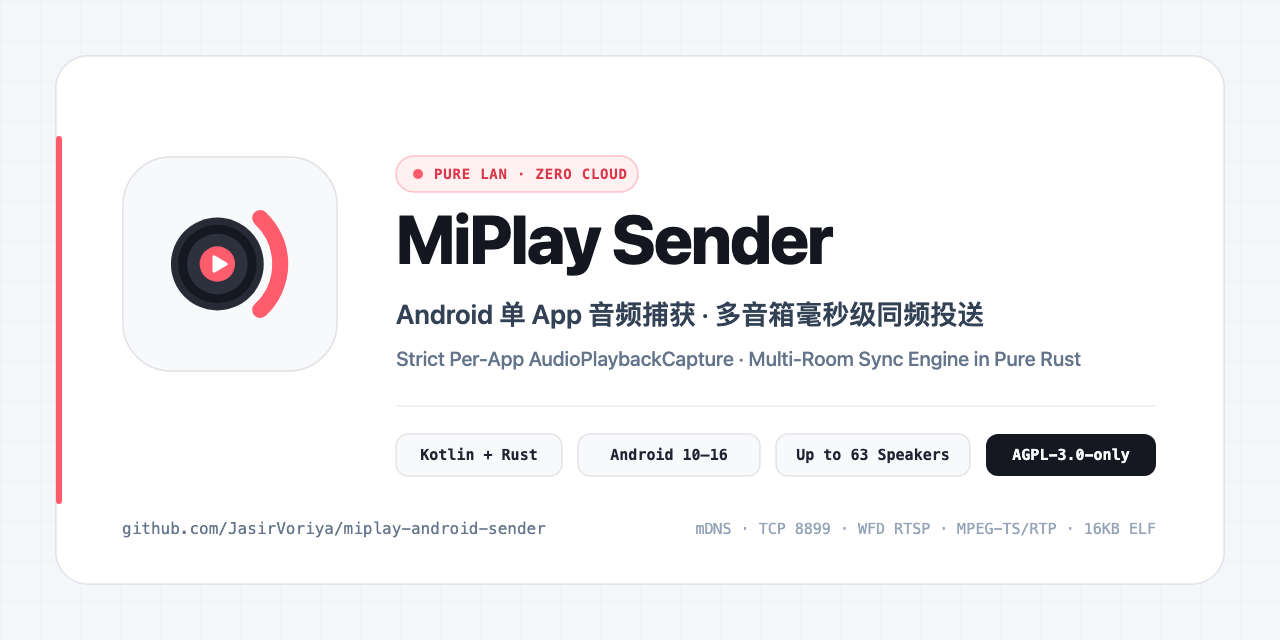
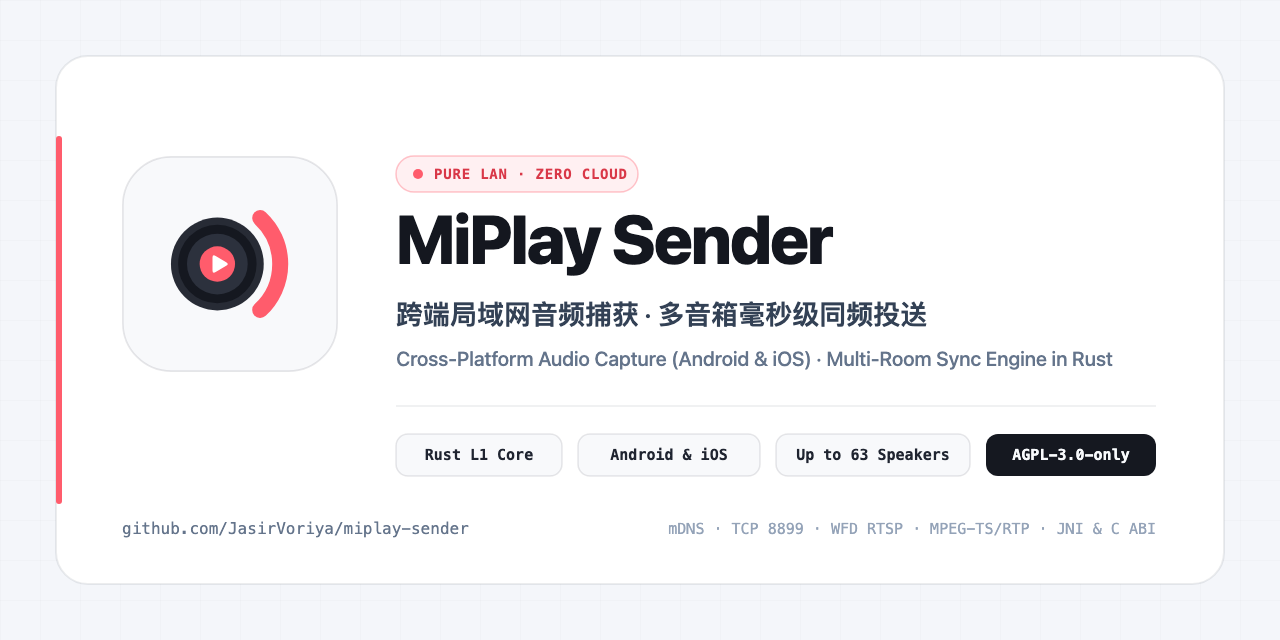
docs: rename project to miplay-sender and unify Android & iOS cross-platform copy

diff --git a/docs/architecture.html b/docs/architecture.html
@@ -762,7 +762,7 @@
         <img src="assets/logo-dark.svg" alt="" width="40" height="40" style="border-radius: 10px; flex-shrink: 0; display: block;">
         <div>
           <h1>MiPlay Sender · 交互式架构与运行时浏览器</h1>
-          <p class="site-subtitle">Android (Kotlin · API 29–36) ⇄ JNI (.so) ⇄ Rust Core (miplay-sender-core) · Pure LAN Multi-Speaker</p>
+          <p class="site-subtitle">Android (Kotlin · JNI) &amp; iOS (Swift · C ABI) ⇄ Rust L1 Core (miplay-sender-core) · Pure LAN Multi-Speaker</p>
         </div>
       </div>
       <ul class="kpi-row" aria-label="架构核心指标">

diff --git a/README.md b/README.md
@@ -8,29 +8,30 @@
 
 # MiPlay 发送端（纯局域网）
 
-**Android 手机单 App 音频捕获 · 零云端纯局域网 · 多音箱毫秒级同频投送**
+**跨端局域网音频捕获与投送（Android & iOS）· 零云端纯局域网 · 多音箱毫秒级同频同步**
 
 <p>
   <strong>简体中文</strong> · <a href="README_EN.md">English</a> ·
-  <a href="https://jasirvoriya.github.io/miplay-android-sender/">在线交互式架构图</a> ·
+  <a href="https://jasirvoriya.github.io/miplay-sender/">在线交互式架构图</a> ·
   <a href="docs/COMPATIBILITY.md">设备兼容矩阵</a> ·
   <a href="CHANGELOG.md">更新日志</a> ·
   <a href="CONTRIBUTING.md">参与贡献</a>
 </p>
 
 <p>
-  <a href="https://github.com/JasirVoriya/miplay-android-sender/actions/workflows/ci.yml"><img alt="CI" src="https://github.com/JasirVoriya/miplay-android-sender/actions/workflows/ci.yml/badge.svg"></a>
-  <a href="https://github.com/JasirVoriya/miplay-android-sender/releases"><img alt="Version v0.9.4" src="https://img.shields.io/badge/Version-v0.9.4-1F2430?style=flat-square"></a>
+  <a href="https://github.com/JasirVoriya/miplay-sender/actions/workflows/ci.yml"><img alt="CI" src="https://github.com/JasirVoriya/miplay-sender/actions/workflows/ci.yml/badge.svg"></a>
+  <a href="https://github.com/JasirVoriya/miplay-sender/releases"><img alt="Version v0.9.4" src="https://img.shields.io/badge/Version-v0.9.4-1F2430?style=flat-square"></a>
   <a href="LICENSE"><img alt="License: AGPL-3.0-only" src="https://img.shields.io/badge/License-AGPL--3.0--only-FF5C6C?style=flat-square&logo=gnu&logoColor=white"></a>
   <img alt="Android 10+ (API 29-36)" src="https://img.shields.io/badge/Android-10%2B%20(API%2029--36)-3DDC84?style=flat-square&logo=android&logoColor=white">
+  <img alt="iOS FFI Ready · SwiftUI Planned" src="https://img.shields.io/badge/iOS-FFI%20Ready%20%C2%B7%20SwiftUI-1F2430?style=flat-square&logo=apple&logoColor=white">
   <img alt="Pure LAN · Zero Cloud" src="https://img.shields.io/badge/Network-Pure%20LAN%20%C2%B7%20Zero%20Cloud-0EA5E9?style=flat-square">
   <img alt="Multi-Room Up to 63" src="https://img.shields.io/badge/Multi--Room-Max%2063%20Speakers-10B981?style=flat-square">
 </p>
 
 <p>
-  <img alt="Kotlin 2.0.21" src="https://img.shields.io/badge/Kotlin-2.0.21-7F52FF?style=flat-square&logo=kotlin&logoColor=white">
   <img alt="Rust 2021 (1.75+)" src="https://img.shields.io/badge/Rust-2021%20(%E2%89%A51.75)-181B22?style=flat-square&logo=rust&logoColor=white">
-  <img alt="JNI + cargo-ndk" src="https://img.shields.io/badge/Bridge-JNI%20%C2%B7%20cargo--ndk-374151?style=flat-square&logo=rust&logoColor=white">
+  <img alt="Kotlin 2.0.21" src="https://img.shields.io/badge/Kotlin-2.0.21-7F52FF?style=flat-square&logo=kotlin&logoColor=white">
+  <img alt="JNI + C ABI (FFI)" src="https://img.shields.io/badge/Bridge-JNI%20%C2%B7%20C%20ABI%20(FFI)-374151?style=flat-square&logo=rust&logoColor=white">
   <img alt="Gradle 8.11 · AGP 8.7" src="https://img.shields.io/badge/Gradle-8.11%20%C2%B7%20AGP%208.7-02303A?style=flat-square&logo=gradle&logoColor=white">
   <img alt="ABI arm64-v8a · 16KB Page" src="https://img.shields.io/badge/ABI-arm64--v8a%20%C2%B7%2016KB-2B313D?style=flat-square">
 </p>
@@ -60,28 +61,32 @@
 | **🎯 严格单 App 音频隔离** | 基于 `AudioPlaybackCapture` 强制单 UID + `USAGE_MEDIA/GAME/UNKNOWN` 白名单，启动前校验包可见性、同用户、非共享 UID 与签名摘要（任一不满足即 **fail-closed** 拒绝），绝不静默退化为全系统录屏或采集麦克风。 |
 | **🔊 多音箱毫秒级同频同步** | Rust 引擎内置单调时基 `EPOCH`、UDP 40B `TimerServer` 时钟主、建连期 `OffsetBarrier` 冲刷积压与预读 14 AU 对齐，单会话最多并发同步 **63 台**局域网音箱，支持运行期动态加减箱与 15s 看门狗指数退避重连。 |
 | **🔐 纯局域网与双认证隔离** | 全程本地直连、零云端 API、零账号登录；严格隔离 Legacy（`MD5 + HMAC-SHA1`）与 Safety（`OPack + 双向 HMAC + 链式 AES-128-CBC`）两条控制认证链路。 |
-| **🧩 App + CLI 双形态交付** | 提供 Android 10–16 毛玻璃投送面板、按设备原位延迟监控与本机静音能量探针；同时内置独立终端工具 `miplay-cli`（支持只读 `inspect`，退出仅 TCP shutdown 不发 `CLOSE`）。 |
+| **🧩 跨端客户端 + CLI 交付** | 共用同一套 L1 Rust 核心（`engine` / `device_catalog`）与 `design/` 跨端设计规范：提供 Android 10–16 原生客户端、iOS C ABI / XCFramework 跨语言桥接（SwiftUI 端规划中），以及独立桌面终端工具 `miplay-cli`（支持只读 `inspect`）。 |
 
 ## 技术栈
 
 | 分层 | 技术选型 / 协议 / 关键依赖 | 用途与工程约束 |
 | --- | --- | --- |
-| **Android 表现与控制层** | `Kotlin 2.0.21` · `Android SDK 29–36` · `AndroidX Core KTX` · `MediaSessionManager` | 纯代码构建轻量化 UI，API 31+ 使用 `RenderEffect` 毛玻璃、API 29–30 自动压暗降级；不申请 `QUERY_ALL_PACKAGES` |
-| **音频采集与硬件编码** | `AudioPlaybackCapture` · `AudioRecord` (48kHz s16le) · `MediaCodec` (AAC-LC 256kbps) · 自研 `PcmProbe` | `MAX_PRIORITY` 采集编码线程；RMS + Goertzel（1kHz/2kHz）数字域探针驱动静音锁定与隔离验收 |
-| **跨语言原生桥接** | `JNI` (`jni 0.21`) · `cargo-ndk` · `arm64-v8a` · **16KB ELF 页对齐** | 单进程零 IPC 拷贝；`FEED_QUEUE_AUS = 96`（≈2s）有界通道，`stop()` 先 `drop(feed)` 消除停播死锁 |
+| **原生表现与控制层（Android / iOS）** | `Kotlin 2.0.21` · `Android SDK 29–36` · 共享 `design/` 规范（规划 iOS `SwiftUI`） | Android 纯代码构建明暗双主题 UI，API 31+ 使用 `RenderEffect` 毛玻璃、API 29–30 自动压暗降级；不申请 `QUERY_ALL_PACKAGES` |
+| **音频采集与硬件编码** | Android `AudioPlaybackCapture` + `MediaCodec`（规划 iOS `ReplayKit` + `AudioToolbox`）· 48kHz AAC-LC 256kbps | `MAX_PRIORITY` 采集编码线程；RMS + Goertzel（1kHz/2kHz）数字域探针驱动静音锁定与隔离验收 |
+| **跨语言原生桥接（JNI + C ABI）** | Android `JNI` (`jni 0.21`, `cargo-ndk`, **16KB ELF 页对齐**) · iOS `C ABI` (`ffi_c.rs`, `miplay_core.h`, `.xcframework`) | 单进程零 IPC 拷贝；`FEED_QUEUE_AUS = 96`（≈2s）有界通道，`stop()` 先 `drop(feed)` 消除停播死锁 |
 | **Rust 协议与同步核心** | `Rust 2021 (≥1.75)` · `LTO` · **零异步运行时**（纯 `std::thread` + 有界 `sync_channel`） | 确定性实时调度：`media-clock`（21.333ms 节拍）+ `supervisor` + 每台音箱独立 5 线程，单端阻塞不拖垮整组 |
 | **网络发现与加密协议** | `mDNS` (`224.0.0.251:5353`) · `TCP 8899` · `WFD RTSP` · `UDP TimerServer` · RustCrypto (`aes`/`cbc`/`hmac`/`sha1`/`sha2`/`md-5`) | 优先融合 `_mi-connect` (`apps=[5]`) 与 `_lyra-mdns`；纯 Rust 实现无 OpenSSL 原生依赖 |
 | **流媒体封装** | `ADTS (7B)` → `PES (0xC0)` → `MPEG-TS (188B + CRC32)` → `RTP (PT=33)` → `$+24bit` TCP 线帧 | 每台接收端维护独立 `Packetizer`（独立 RTP 序号与 TS 连续计数），共享同源 90kHz PTS / 27MHz PCR |
-| **构建、测试与合规** | `Gradle 8.11.1` · `AGP 8.7.3` · `standard` / `acceptance` 双变体 · `NewApi` Fatal Lint | 18 组 JVM 契约单测 + `cargo test` + `:testtones` 三 UID 声道隔离验收包；全仓 `AGPL-3.0-only` |
+| **构建、测试与合规** | `Gradle 8.11.1` · `AGP 8.7.3` · `standard` / `acceptance` 双变体 · `NewApi` Fatal Lint | JVM 契约单测 + `cargo test` + C11 头文件校验 + `:testtones` 三 UID 声道隔离验收包；全仓 `AGPL-3.0-only` |
 
 ## 目录结构
 
 ```text
-miplay-android-sender/
-├── core/                         # [L1 公共核心] 纯 Rust 协议与多箱同步引擎（全平台共享）
+miplay-sender/
+├── core/                         # [L1 公共核心] 纯 Rust 协议与多箱同步引擎（Android / iOS / CLI 全平台共享）
 │   ├── Cargo.toml                #   支持 rlib / cdylib(.so) / staticlib(.xcframework)
+│   ├── include/                  #   面向 iOS Swift 的 C11 头文件 (miplay_core.h) 与 module.modulemap
 │   └── src/                      #   核心源码（以下展开最关键模块）
-│       ├── ffi.rs                #     跨语言 FFI 桥接（当前 Android JNI，后续扩展 iOS）
+│       ├── engine.rs             #     跨端会话句柄表与多箱并发协调器
+│       ├── device_catalog.rs     #     设备发现分类、过滤、缓存合并与路由互斥状态机
+│       ├── ffi.rs                #     Android JNI 桥接插头
+│       ├── ffi_c.rs              #     iOS / C ABI 桥接插头
 │       ├── discovery.rs          #     mDNS 局域网设备发现与能力解析
 │       ├── control.rs            #     TCP 8899 控制通道、心跳与音量/暂停恢复
 │       ├── auth/                 #     双认证隔离（legacy 明文 / safety 加密）
@@ -89,6 +94,7 @@ miplay-android-sender/
 │       ├── clock_sync.rs         #     UDP TimerServer 时钟主（与 timeline 同源）
 │       ├── session.rs            #     多音箱并发会话、建连对齐与断线重连（最多 63 台）
 │       └── media/                #     流媒体封装（ADTS -> MPEG-TS -> RTP）
+├── design/                       # [跨端共享设计层] Android 与 iOS 共用的 tokens.json、24x24 矢量图标与 UI_SPEC.md
 ├── cli/                          # 独立终端工具 miplay-cli（发现 / 只读 inspect / 投送调试）
 │   └── src/                      #   CLI 命令入口（main.rs）
 ├── android/                      # [L2+L3 Android 端] Kotlin 原生客户端与测试工程
@@ -97,11 +103,12 @@ miplay-android-sender/
 │   │   └── src/
 │   │       ├── main/             #     正式源码（UI · CastService · capture/ · cast/ · compat/）
 │   │       ├── acceptance/       #     验收变体叠加清单与本地音频过滤探针入口
-│   │       └── test/             #     18 组 JVM 单元与契约回归测试
+│   │       └── test/             #     JVM 单元与契约回归测试
 │   └── testtones/                #   三 UID 声道隔离验收音源 App（1kHz / 2kHz / deny）
 ├── scripts/                      # 构建、签名与校验脚本
 │   ├── build-debug.sh            #   Rust 测试 + 16KB 对齐 cargo-ndk + Gradle Debug
 │   ├── build-release.sh          #   正式签名 Release APK 与校验和流水线
+│   ├── build-ios-xcframework.sh  #   iOS 静态库与 MiPlayCore.xcframework 打包脚本
 │   └── verify-acceptance-apk.sh  #   验收包 16KB 对齐、签名与清单隔离校验
 ├── docs/                         # 架构可视化、专项文档、修复日志与需求排期
 │   ├── architecture.html         #   零依赖本地交互式架构浏览器
@@ -139,7 +146,7 @@ miplay-android-sender/
 
 本项目在演进上采用 **跨端三层架构**：**L1 公共核心层（Rust `core/`）** 全平台共享协议、认证、多箱时钟同步与流媒体打包；**L2 系统接口层**（音频捕获、硬件 AAC 编码、保活）与 **L3 原生 UI 层** 由 Android（已实现）与 iOS（规划中）各自原生实现，通过薄 FFI 插头对接同一份 Rust 引擎，并通过共享设计规范 `design/` 保持双端视觉一致。当前已落地的 Android 端运行在 **Android（Kotlin，API 29–36）⇄ JNI（`libmiplay_sender_core.so`）⇄ Rust（`miplay-sender-core`）** 单进程内。
 
-> **交互式架构浏览器**：如需在浏览器中点击任意模块追踪其全部 **↑ 上游来源 / ↓ 下游消费者**、按 6 个阶段演练运行时线程切换，或按关键词检索全仓文件职责，可直接访问 **[在线交互式架构浏览器（GitHub Pages）](https://jasirvoriya.github.io/miplay-android-sender/)**，或打开零依赖本地页面 [`docs/architecture.html`](docs/architecture.html)。
+> **交互式架构浏览器**：如需在浏览器中点击任意模块追踪其全部 **↑ 上游来源 / ↓ 下游消费者**、按 6 个阶段演练运行时线程切换，或按关键词检索全仓文件职责，可直接访问 **[在线交互式架构浏览器（GitHub Pages）](https://jasirvoriya.github.io/miplay-sender/)**，或打开零依赖本地页面 [`docs/architecture.html`](docs/architecture.html)。
 
 ### 1. 跨端三层架构（L2/L3 双端各自实现 · L1 Rust 公共共享）
 

diff --git a/README_EN.md b/README_EN.md
@@ -8,23 +8,24 @@
 
 # MiPlay Sender (Pure LAN)
 
-**Per-App Android Audio Capture · Zero-Cloud Pure LAN · Synchronized Multi-Speaker Casting**
+**Cross-Platform LAN Audio Capture & Casting (Android & iOS) · Zero-Cloud Pure LAN · Synchronized Multi-Speaker Engine**
 
 <p>
   <a href="README.md">简体中文</a> · <strong>English</strong>
 </p>
 
 <p>
-  <a href="https://github.com/JasirVoriya/miplay-android-sender/actions/workflows/ci.yml"><img alt="CI" src="https://github.com/JasirVoriya/miplay-android-sender/actions/workflows/ci.yml/badge.svg"></a>
-  <a href="https://github.com/JasirVoriya/miplay-android-sender/releases"><img alt="Version v0.9.4" src="https://img.shields.io/badge/Version-v0.9.4-1F2430?style=flat-square"></a>
+  <a href="https://github.com/JasirVoriya/miplay-sender/actions/workflows/ci.yml"><img alt="CI" src="https://github.com/JasirVoriya/miplay-sender/actions/workflows/ci.yml/badge.svg"></a>
+  <a href="https://github.com/JasirVoriya/miplay-sender/releases"><img alt="Version v0.9.4" src="https://img.shields.io/badge/Version-v0.9.4-1F2430?style=flat-square"></a>
   <a href="LICENSE"><img alt="License: AGPL-3.0-only" src="https://img.shields.io/badge/License-AGPL--3.0--only-FF5C6C?style=flat-square&logo=gnu&logoColor=white"></a>
   <img alt="Android 10+ (API 29-36)" src="https://img.shields.io/badge/Android-10%2B%20(API%2029--36)-3DDC84?style=flat-square&logo=android&logoColor=white">
+  <img alt="iOS FFI Ready · SwiftUI Planned" src="https://img.shields.io/badge/iOS-FFI%20Ready%20%C2%B7%20SwiftUI-1F2430?style=flat-square&logo=apple&logoColor=white">
   <img alt="Pure LAN · Zero Cloud" src="https://img.shields.io/badge/Network-Pure%20LAN%20%C2%B7%20Zero%20Cloud-0EA5E9?style=flat-square">
   <img alt="Multi-Room Up to 63" src="https://img.shields.io/badge/Multi--Room-Max%2063%20Speakers-10B981?style=flat-square">
 </p>
 
 <p>
-  <a href="https://jasirvoriya.github.io/miplay-android-sender/">Interactive Architecture</a> ·
+  <a href="https://jasirvoriya.github.io/miplay-sender/">Interactive Architecture</a> ·
   <a href="docs/COMPATIBILITY.md">Device Compatibility</a> ·
   <a href="CHANGELOG.md">Changelog</a> ·
   <a href="CONTRIBUTING.md">Contributing</a> ·
@@ -39,10 +40,10 @@
 
 | Area | Capability |
 | --- | --- |
-| **Strict Per-App Audio Isolation** | Uses Android `AudioPlaybackCapture` with a strict single-UID + `USAGE_MEDIA/GAME/UNKNOWN` allowlist. Verifies package visibility, same-user boundary, non-shared UID, and signing digest before starting (**fail-closed**) — never silently falls back to system-wide capture or microphone input. |
+| **Strict Per-App Audio Isolation** | Uses Android `AudioPlaybackCapture` with a strict single-UID + `USAGE_MEDIA/GAME/UNKNOWN` allowlist (with iOS `ReplayKit` / `AudioToolbox` planned on the same L1 core). Verifies package visibility, same-user boundary, non-shared UID, and signing digest before starting (**fail-closed**) — never silently falls back to system-wide capture or microphone input. |
 | **Multi-Speaker Sync Engine** | Pure Rust real-time engine (`std::thread` + bounded `sync_channel`, zero async runtime) with unified monotonic `EPOCH`, UDP 40B `TimerServer` clock master, `OffsetBarrier` backlog flush + 14 AU preroll alignment, supporting up to **63 concurrent LAN speakers**, dynamic join/leave, and exponential-backoff watchdog reconnect. |
 | **Pure LAN & Dual Auth Isolation** | 100% local LAN communication with zero cloud APIs or account logins. Strictly isolates Legacy (`MD5 + HMAC-SHA1`) and Safety (`OPack + mutual HMAC + chained AES-128-CBC`) control authentication channels. |
-| **Android App + Cross-Platform CLI** | Native Kotlin Android client (API 29–36, `arm64-v8a`, 16KB ELF page alignment) plus standalone `miplay-cli` tool (including read-only `inspect` that exits via TCP shutdown without sending protocol `CLOSE`). |
+| **Cross-Platform Clients + CLI** | Shared L1 Rust core (`engine` / `device_catalog`) and `design/` spec across Android (Kotlin + JNI `.so`, API 29–36, 16KB ELF page alignment), iOS (`ffi_c` + C11 header + `.xcframework` script ready, SwiftUI UI planned), and standalone `miplay-cli` tool (including read-only `inspect`). |
 
 ---
 
@@ -50,11 +51,11 @@
 
 MiPlay Sender follows a **3-layer cross-platform architecture**:
 
-- **L1 Shared Core (`core/`)**: Platform-agnostic Rust protocol engine — mDNS discovery (`_mi-connect` + `_lyra-mdns`), TCP 8899 control & Legacy/Safety auth, reverse WFD RTSP, UDP clock master, ADTS → PES → MPEG-TS → RTP (`PT=33`) packetization, multi-room coordination, and unified UI state/latency normalization. Exposed via thin JNI (`core/src/ffi.rs`) for Android and C ABI (`core/src/ffi_c.rs` + `core/include/miplay_core.h`) for future iOS SwiftUI.
+- **L1 Shared Core (`core/`)**: Platform-agnostic Rust protocol engine — mDNS discovery (`_mi-connect` + `_lyra-mdns`), TCP 8899 control & Legacy/Safety auth, reverse WFD RTSP, UDP clock master, ADTS → PES → MPEG-TS → RTP (`PT=33`) packetization, multi-room coordination, and unified UI state/latency normalization. Exposed via thin JNI (`core/src/ffi.rs`) for Android and C ABI (`core/src/ffi_c.rs` + `core/include/miplay_core.h`) for iOS SwiftUI.
 - **L2 Platform System Layer**: OS-native capture, hardware AAC-LC (48kHz stereo, 256kbps) encoding, and foreground service lifecycle (`android/` implemented; iOS ReplayKit/AudioToolbox planned).
-- **L3 Native UI Layer**: Native Kotlin UI on Android (API 31+ `RenderEffect` blur with API 29–30 fallback), with shared design tokens planned under `design/`.
+- **L3 Native UI Layer**: Native Kotlin UI on Android and planned SwiftUI on iOS, unified by shared design tokens and vector icons in `design/`.
 
-> Explore modules, upstream/downstream dependencies, and the 6-stage runtime lifecycle in the zero-dependency **[Interactive Architecture Explorer](https://jasirvoriya.github.io/miplay-android-sender/)** (source: [docs/architecture.html](docs/architecture.html)).
+> Explore modules, upstream/downstream dependencies, and the 6-stage runtime lifecycle in the zero-dependency **[Interactive Architecture Explorer](https://jasirvoriya.github.io/miplay-sender/)** (source: [docs/architecture.html](docs/architecture.html)).
 
 ![MiPlay Sender Cross-Platform 3-Layer Architecture](docs/assets/cross-platform-architecture.svg)
 
@@ -62,7 +63,7 @@ MiPlay Sender follows a **3-layer cross-platform architecture**:
 
 ## Build & Test
 
-**Prerequisites**: JDK 17+, Android SDK (`platforms;android-36`, `build-tools;36.0.0`, NDK), Rust ≥ 1.75, `aarch64-linux-android` target, and `cargo-ndk`.
+**Prerequisites**: JDK 17+, Android SDK (`platforms;android-36`, `build-tools;36.0.0`, NDK), Rust ≥ 1.75, `aarch64-linux-android` target, and `cargo-ndk` (plus Xcode / `aarch64-apple-ios` targets when building the iOS XCFramework).
 
 ```bash
 export ANDROID_HOME=/path/to/android-sdk
@@ -76,12 +77,15 @@ cargo install cargo-ndk --locked
 # Build Release APK (signed via MIPLAY_RELEASE_* env vars or untracked keystore.properties)
 ./scripts/build-release.sh
 
+# Build iOS static libraries and MiPlayCore.xcframework (macOS with Xcode)
+./scripts/build-ios-xcframework.sh
+
 # Run unit tests directly
 cargo test --workspace
 cd android && ./gradlew --no-daemon test lintStandardDebug
 ```
 
-Prebuilt APKs and cross-platform `miplay-cli` binaries are published automatically on **[GitHub Releases](https://github.com/JasirVoriya/miplay-android-sender/releases)** for tagged versions.
+Prebuilt APKs and cross-platform `miplay-cli` binaries are published automatically on **[GitHub Releases](https://github.com/JasirVoriya/miplay-sender/releases)** for tagged versions.
 
 ---
 

diff --git a/docs/COMPATIBILITY.md b/docs/COMPATIBILITY.md
@@ -2,9 +2,9 @@
 
 > **诚实口径声明**：本表仅登记有真实设备或受控验证证据的记录，**编译通过 ≠ 全机型兼容，单箱可用 ≠ 多箱同步 / 静音 / 后台保活全通过**。详细未测缺口请先阅读 [docs/LIMITATIONS.md](LIMITATIONS.md)。
 
-📣 **欢迎共建**：如果你手上有小米 / MiPlay 音箱或其他品牌 Android 手机，无论测试结果是 **可用 ✅** 还是 **异常 ❌**，都欢迎点此提交实测反馈：
+📣 **欢迎共建**：如果你手上有小米 / MiPlay 音箱或不同系统版本的 Android / iOS 发送端设备，无论测试结果是 **可用 ✅** 还是 **异常 ❌**，都欢迎点此提交实测反馈：
 
-👉 **[提交你的设备兼容实测报告（GitHub 表单）](https://github.com/JasirVoriya/miplay-android-sender/issues/new?template=device_compatibility.yml)**
+👉 **[提交你的设备兼容实测报告（GitHub 表单）](https://github.com/JasirVoriya/miplay-sender/issues/new?template=device_compatibility.yml)**
 
 ---
 
@@ -31,17 +31,19 @@
 
 ---
 
-## 二、发送端（Android 手机与系统 ROM）
+## 二、发送端（Android / iOS 设备与系统版本）
 
-> 系统最低要求：**Android 10（API 29）**，当前正式包仅构建 **`arm64-v8a`**（支持 16KB ELF 页对齐）。
+> **Android 端**：最低要求 **Android 10（API 29）**，当前正式包构建 **`arm64-v8a`**（支持 16KB ELF 页对齐）。  
+> **iOS 端**：L1 Rust C ABI（`ffi_c.rs` / `miplay_core.h` / `build-ios-xcframework.sh`）与跨端共享设计规范 `design/` 已就绪，L2/L3 原生客户端（`ReplayKit` / `AudioToolbox` / `SwiftUI`）规划推进中。
 
-| 手机型号 | 系统 / ROM | Android API | 冷启动与发现 | 投送实测 | 后台保活 / 备注 |
+| 设备型号 / 平台 | 系统 / ROM | 版本 / API | 冷启动与发现 | 投送实测 | 后台保活 / 备注 |
 | --- | --- | :---: | :---: | :---: | --- |
-| **华为 MAR-AL00** | EMUI / HarmonyOS（Android 10） | API 29 | ✅ | ✅ | API 29 冷启动零权限弹窗、模糊降级与 `L17A` 静音投送已核验；`0.9.3` 用户确认可投送；长时后台/多箱真实音乐待进一步验证 |
-| **Xiaomi / Redmi（HyperOS / MIUI）** | HyperOS / MIUI | API 31–36 | ⏳ | ⏳ | 需注意 HyperOS Greeze 后台冻结机制，电池优化入口不等于全机型永不杀后台 |
-| **OnePlus / OPPO / realme（ColorOS）** | ColorOS | API 29–36 | ⏳ | ⏳ | 等待社区实测上报 |
-| **vivo / iQOO（OriginOS）** | OriginOS | API 29–36 | ⏳ | ⏳ | 等待社区实测上报 |
-| **Samsung（One UI） / Pixel（AOSP）** | One UI / AOSP | API 29–36 | ⏳ | ⏳ | 等待社区实测上报（欢迎实测 Android 15/16 16KB 页设备） |
+| **华为 MAR-AL00 (Android)** | EMUI / HarmonyOS（Android 10） | API 29 | ✅ | ✅ | API 29 冷启动零权限弹窗、模糊降级与 `L17A` 静音投送已核验；`0.9.3` 用户确认可投送；长时后台/多箱真实音乐待进一步验证 |
+| **Xiaomi / Redmi (Android)** | HyperOS / MIUI | API 31–36 | ⏳ | ⏳ | 需注意 HyperOS Greeze 后台冻结机制，电池优化入口不等于全机型永不杀后台 |
+| **OnePlus / OPPO / realme (Android)** | ColorOS | API 29–36 | ⏳ | ⏳ | 等待社区实测上报 |
+| **vivo / iQOO (Android)** | OriginOS | API 29–36 | ⏳ | ⏳ | 等待社区实测上报 |
+| **Samsung / Pixel (Android)** | One UI / AOSP | API 29–36 | ⏳ | ⏳ | 等待社区实测上报（欢迎实测 Android 15/16 16KB 页设备） |
+| **iPhone / iPad (iOS / iPadOS)** | iOS / iPadOS | iOS 16+（规划） | ⏳ | ⏳ | L1 Rust C ABI / XCFramework 与 `design/` 规范已就绪，SwiftUI 客户端开发中 |
 
 ---
 
@@ -62,4 +64,4 @@ miplay-cli discover
 miplay-cli inspect <音箱IP> --auth legacy
 ```
 
-将脱敏后的输出附在 [设备兼容实测报告](https://github.com/JasirVoriya/miplay-android-sender/issues/new?template=device_compatibility.yml) 中即可。
+将脱敏后的输出附在 [设备兼容实测报告](https://github.com/JasirVoriya/miplay-sender/issues/new?template=device_compatibility.yml) 中即可。

diff --git a/CONTRIBUTING.md b/CONTRIBUTING.md
@@ -6,9 +6,9 @@
 
 ## 一、最快参与方式
 
-1. **上报音箱 / 手机兼容实测**：前往 [设备兼容实测模板](https://github.com/JasirVoriya/miplay-android-sender/issues/new?template=device_compatibility.yml) 提交你的测试结果（可用或不可用都同样宝贵），帮助完善 [设备兼容矩阵](docs/COMPATIBILITY.md)。
-2. **反馈 Bug 或排查协议**：使用 [Bug 反馈模板](https://github.com/JasirVoriya/miplay-android-sender/issues/new?template=bug_report.yml)，如方便请附带 `files/cast_ops.log` 或只读命令 `miplay-cli inspect <IP> --auth legacy` 的脱敏输出。
-3. **提交功能建议**：使用 [功能建议模板](https://github.com/JasirVoriya/miplay-android-sender/issues/new?template=feature_request.yml) 描述真实使用场景。
+1. **上报音箱 / 手机兼容实测**：前往 [设备兼容实测模板](https://github.com/JasirVoriya/miplay-sender/issues/new?template=device_compatibility.yml) 提交你的测试结果（可用或不可用都同样宝贵），帮助完善 [设备兼容矩阵](docs/COMPATIBILITY.md)。
+2. **反馈 Bug 或排查协议**：使用 [Bug 反馈模板](https://github.com/JasirVoriya/miplay-sender/issues/new?template=bug_report.yml)，如方便请附带 `files/cast_ops.log` 或只读命令 `miplay-cli inspect <IP> --auth legacy` 的脱敏输出。
+3. **提交功能建议**：使用 [功能建议模板](https://github.com/JasirVoriya/miplay-sender/issues/new?template=feature_request.yml) 描述真实使用场景。
 4. **提交代码或文档 PR**：按下方指南配好开发环境后发起 Pull Request。
 
 ---
@@ -64,7 +64,7 @@ cd android && ./gradlew --no-daemon test lintStandardDebug
 - **L1 公共核心层（`core/`）**：平台无关协议、mDNS 发现、认证、多箱同步、路由与协调状态机、统一延迟状态；通过 `ffi.rs`（Android JNI）与 `ffi_c.rs`（iOS C ABI）对外暴露薄接口。
 - **L2 / L3 平台实现层（`android/` 及规划中的 iOS）**：仅保留 OS 强相关能力（音频捕获、硬件编码、前台服务、原生 UI 与本地持久化）。
 
-如需先摸清全仓模块上下游，推荐浏览 [在线交互式架构浏览器](https://jasirvoriya.github.io/miplay-android-sender/)（本地源码位于 [docs/architecture.html](docs/architecture.html)）。
+如需先摸清全仓模块上下游，推荐浏览 [在线交互式架构浏览器](https://jasirvoriya.github.io/miplay-sender/)（本地源码位于 [docs/architecture.html](docs/architecture.html)）。
 
 ---
 

diff --git a/.github/PULL_REQUEST_TEMPLATE.md b/.github/PULL_REQUEST_TEMPLATE.md
@@ -2,7 +2,7 @@
 
 <!-- 简述本次 PR 解决的问题或新增的能力，并关联对应 Issue -->
 - 关联 Issue：Fixes #（如无请删除）
-- 变更方向：`[ ] Rust 核心 (core/)` · `[ ] CLI (cli/)` · `[ ] Android 端 (android/)` · `[ ] 文档 / 工程化`
+- 变更方向：`[ ] Rust 核心 (core/)` · `[ ] CLI (cli/)` · `[ ] Android 端 (android/)` · `[ ] iOS 端 / 跨端设计 (design/)` · `[ ] 文档 / 工程化`
 
 ## 改动要点
 
